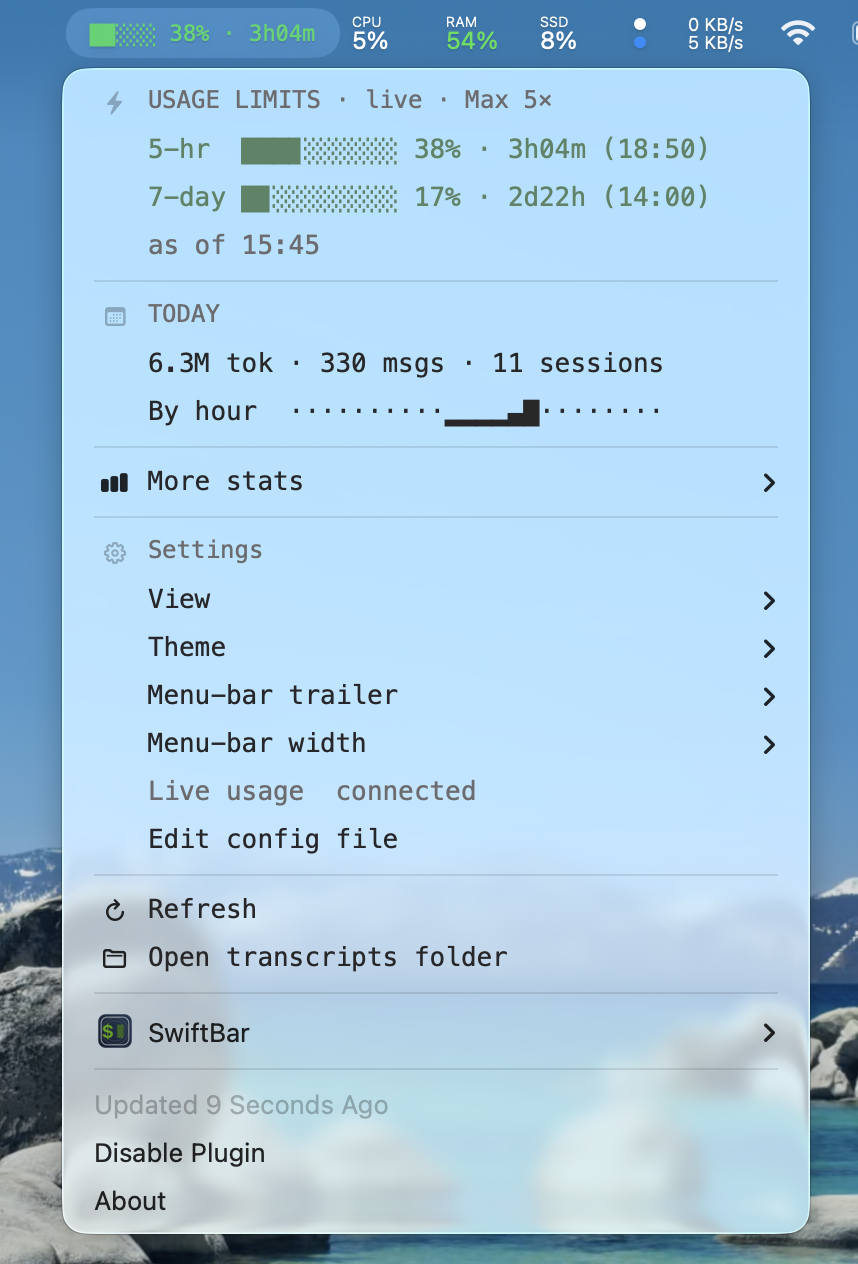
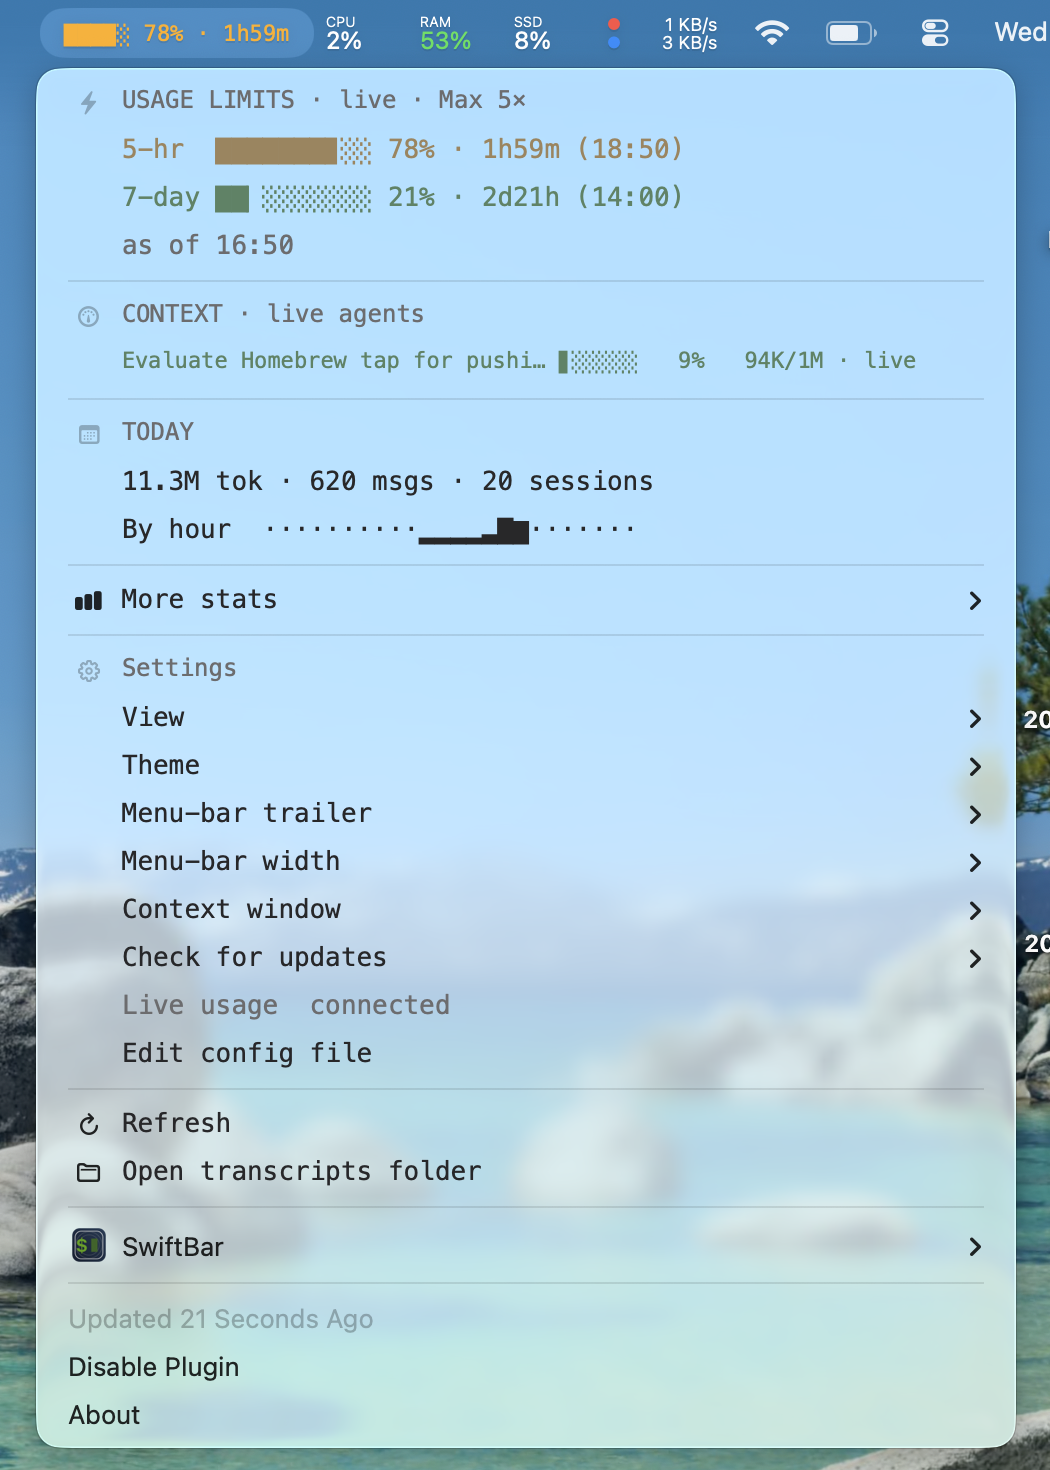
Refresh screenshots; expand context-tracking docs
- Update the compact + detailed dropdown screenshots.
- Surface how the Context section detects genuinely-open sessions
  (matching live claude processes to their cwd, not just recency) and
  what it's for: spotting which session has room vs is about to compact.

diff --git a/README.md b/README.md
@@ -25,10 +25,12 @@ Click it for a **Stats-style dropdown** with SF Symbol section headers:
 
 - **Usage limits (live)** — 5-hour / 7-day / Opus, each a fill bar with exact
   `used_percentage` and time-to-reset, straight from Anthropic (cross-surface)
-- **Context (live agents)** — how full each running session's context window is,
-  so you can see at a glance how much room you have left; each row is labelled
-  with Claude's own session title (the one in the resume picker), with subagents
-  listed under the session that spawned them
+- **Context (live agents)** — how full each *open* session's context window is, so
+  at a glance you can tell which session still has room and which is about to
+  auto-compact. burnbar shows the sessions that are genuinely running (it matches
+  live `claude` processes to their working dir, so a window you closed drops off
+  right away), labels each with Claude's own session title (the one in the resume
+  picker), and nests any subagents under the session that spawned them
 - **Today** — total tokens, messages, sessions, peak hour, hourly sparkline, by model
 - **Last 7 days** — per-day mini bars, week + month totals
 - **All time** — totals, raw vs effective tokens, sessions, projects, daily
@@ -160,13 +162,17 @@ bridge is wired, the menu bar shows `set up` and points you here.
   followed by a reset countdown (swap to a token count or nothing in Settings).
 - **Context (live agents)** reads the same transcripts: a session's current
   context-window fill is its latest turn's prompt size (`input` +
-  `cache_creation` + `cache_read` — what the model was actually sent). Main
-  sessions touched in the last couple of hours are shown, with the subagents
-  still running underneath them (linked by the `sessionId` in each
-  `agent-*.jsonl`). Rows are labelled with Claude's auto-generated session title
-  (the `aiTitle` it writes to the transcript and shows in the resume picker),
-  falling back to the project folder and git branch. The bar reddens as the
-  window fills, so a session about to compact stands out.
+  `cache_creation` + `cache_read` — what the model was actually sent). To show
+  only sessions that are *actually open*, burnbar matches each running `claude`
+  process to its working directory (`pgrep` + `lsof`) instead of guessing from
+  recency — so a window you just closed disappears immediately, and two terminals
+  in the same repo are counted separately; if it can't read processes it falls
+  back to a recent-activity window. Subagents still running are nested under the
+  session that spawned them (linked by the `sessionId` in each `agent-*.jsonl`)
+  and drop off the moment they finish. Rows are labelled with Claude's
+  auto-generated session title (the `aiTitle` it writes to the transcript and
+  shows in the resume picker), falling back to the project folder and git branch.
+  The bar reddens as the window fills, so a session about to compact stands out.
 
 Claude Code's transcripts don't record the window *size*, so `Auto-detect` goes
 by the model running the latest turn: Opus is the 1M-context model, so an Opus
